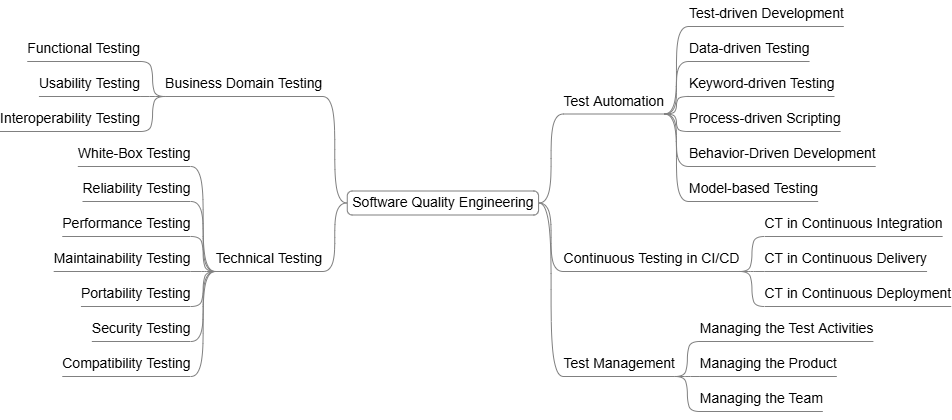
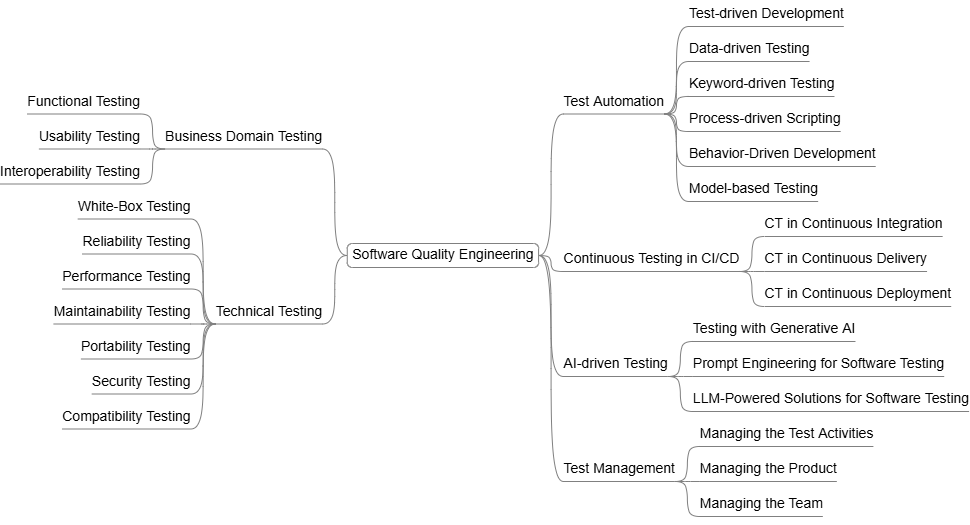
add cloud-dev and sd prof

Changed region(s): [[0.0, 0.0, 1.0, 0.9905], [0.0305, 0.0929, 0.1523, 0.1548], [0.5483, 0.3405, 0.5788, 0.4024]]

diff --git a/mcit-cloud-dev-prog/README.md b/mcit-cloud-dev-prog/README.md
@@ -1,0 +1,75 @@
+# MCIT Advanced Cloud Developer Nanodegree Program
+
+A 3-Month Advanced Cloud Developer Nanodegree Program under the Future Work is Digital ([EgFWD](https://egfwd.com)) Scholarship, offered by the Ministry of Communications and Information Technology (MCIT), powered by the Information Technology Industry Development Agency ([ITIDA](www.itida.gov.eg)), with [Udacity](www.udacity.com) as the online learning platform.
+
+![MCIT-EgFWD Advanced Cloud Developer Nanodegree Program](mcit-cloud-dev-prog.png)
+
+### Cloud Fundamentals
+
+* Cloud Overview
+* Foundational & Compute Service
+* Storage & Content Delivery
+* Security
+* Networking & Elasticity
+* Messaging & Containers
+* AWS Management
+* Deploy Static Website on AWS
+
+### Full Stack Apps on AWS
+
+* Introduction to Full Stack Apps on AWS
+* Cloud Basics
+* Cloud Development
+* Storing Data in the Cloud
+* Building and Deploying
+* User Authentication and Security
+* Scaling and Fixing
+
+### Monolith to Microservices at Scale
+
+* Introduction to Microservices
+* Microservices Design Principles and Best Practices
+* Containers Using Docker
+* Automating the Application Development Lifecycle
+* Orchestration with Kubernetes
+* Best Practices/Design Patterns for Kubernetes in Production
+* Refactor Monolith to Microservices and Deploy
+
+### Tools and Technologies
+
+* AWS Services
+* Node.js
+* Ionic Framework
+* Python
+* Postbird
+* PostgreSQL
+* Postman
+* Git & GitHub
+* Docker
+* Travis CI
+* Circle CI
+* Kubernetes
+* Visual Studio Code
+
+### Agile
+
+* Foundations of Agile
+* Agile Frameworks
+
+### Managing Freelancing Projects
+
+* Creating a Process to Source Clients
+* Negotiate a Project Scope and a Pricing Framework
+* Managing & Completing Projects
+* Working with a Mock Client
+
+### Career Services
+
+* Resume & Cover Letter
+* LinkedIn Profile
+* Github Profile & Collaborate
+* Conduct Industry Research
+
+### Project
+
+* Develop a cloud-based application for uploading and filtering images

diff --git a/iti-sd-track/README.md b/iti-sd-track/README.md
@@ -1,10 +1,12 @@
 # ITI Professional Diploma - SD Track
 
-Information Technology Institute (ITI), 9-Month Professional Diploma and Training Program, Software Engineering Department, Software Development Track (SD)
+Information Technology Institute ([ITI](https://iti.gov.eg/)) — 9-Month Professional Diploma and Training Scholarship Program, Software Engineering Department, Software Development Track (SD).
+
+The program focused on professional software development practices, including .NET Systems & Web Application Development and Database Development, along with soft skills training and hands-on experience with various technical tools and technologies.
 
 ![ITI Professional Diploma - SD Track](iti-sd-track.png)
 
-## Foundation Module
+### Foundation Module
 
 * Operating Systems Fundamentals
 * Computer Networks Fundamentals
@@ -20,7 +22,7 @@ Information Technology Institute (ITI), 9-Month Professional Diploma and Trainin
 * C++ Programming
 * HTML/XHTML & JavaScript and CSS
 
-## Focus Module
+### Focus Module
 
 * XML & Allied Technologies
 * Advanced JavaScript & DHTML
@@ -43,11 +45,11 @@ Information Technology Institute (ITI), 9-Month Professional Diploma and Trainin
 * .NET Mobile Applications
 * Web Servers Administration
 
-## Performance Module (Project)
+### Performance Module (Project)
 
 * [Project](grad-proj.md)
 
-## Soft skills & Languages
+### Soft skills & Languages
 
 * Communication skills
 * Presentation skills

diff --git a/sd-prof-cert/README.md b/sd-prof-cert/README.md
@@ -1,0 +1,15 @@
+# SD Professional Certifications
+
+A collection of Software Development (SD) professional certifications syllabi, covering key areas such as Back-end Development, Front-end Development, Cloud Development and Database Development.
+
+### Microsoft Foundational C# Certification
+
+- Syllabus: 
+[Part 1](https://learn.microsoft.com/en-us/training/paths/get-started-c-sharp-part-1/) |
+[Part 2](https://learn.microsoft.com/en-us/training/paths/get-started-c-sharp-part-2/) |
+[Part 3](https://learn.microsoft.com/en-us/training/paths/get-started-c-sharp-part-3/) |
+[Part 4](https://learn.microsoft.com/en-us/training/paths/get-started-c-sharp-part-4/) |
+[Part 5](https://learn.microsoft.com/en-us/training/paths/get-started-c-sharp-part-5/) |
+[Part 6](https://learn.microsoft.com/en-us/training/paths/get-started-c-sharp-part-6/)
+
+- [Verify Certificate — freecodecamp](https://freecodecamp.org/certification/mohamedkerbawy/foundational-c-sharp-with-microsoft)

diff --git a/sqe-prof-cert/README.md b/sqe-prof-cert/README.md
@@ -43,6 +43,10 @@ A collection of Software Quality Engineering (SQE) professional certifications s
 [Environments, Tools, and Future Proofing](https://drive.google.com/file/d/1QrxS9aGwyvQR7bMQOJLo4h5Dahy9a5eM/view?usp=drive_link)
 - [Verify Certificate — AT*SQA](https://atsqa.org/certified-testers/profile/34a9b31a2750421bb3eaf3ccaab67d2b)
 
+### ISTQB Testing with Generative AI (CT-GenAI)
+
+- [Syllabus](https://drive.google.com/file/d/1zZfWlgRL3iLI-TeBhUMnVqbY0SXb0m9t/view?usp=drive_link)
+
 ### ISTQB Advanced Level Test Management (CTAL-TM)
 
 - [Syllabus](https://drive.google.com/file/d/1fYNixNSCyHWwusIH2iTNEWXQorUznPT9/view?usp=drive_link)

diff --git a/README.md b/README.md
@@ -1,7 +1,11 @@
-# Professional Programs
+# Professional Programs & Certifications
 
 This repository contains professional programs and professional certifications, including program structures, certification syllabi, credential verification information and study plans.
 
 [ITI Professional Diploma – Software Development (SD) Track](iti-sd-track/README.md)
+
+[MCIT Advanced Cloud Developer Nanodegree Program](mcit-cloud-dev-prog/README.md)
+
+[Software Development Professional Certifications](sd-prof-cert/README.md)
 
 [Software Quality Engineering Professional Certifications](sqe-prof-cert/README.md)

diff --git a/sqe-prof-cert/sqe-areas/README.md b/sqe-prof-cert/sqe-areas/README.md
@@ -16,6 +16,10 @@ Test Automation & Continuous Testing
 
 ![Test Automation & Continuous Testing](automation-ct.png)
 
+AI-driven Testing
+
+![AI-driven Testing](ai-driven-testing.png)
+
 Test Management
 
 ![Test Management](test-management.png)
